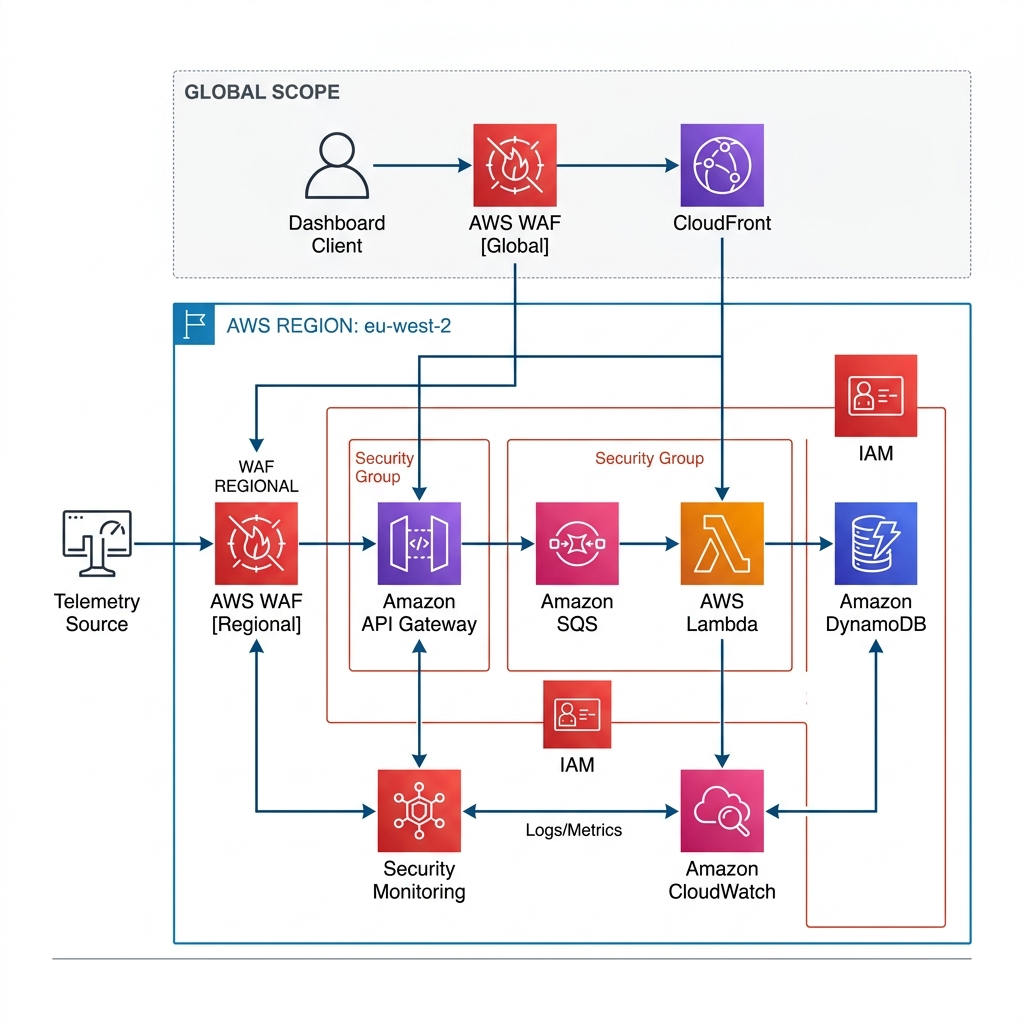
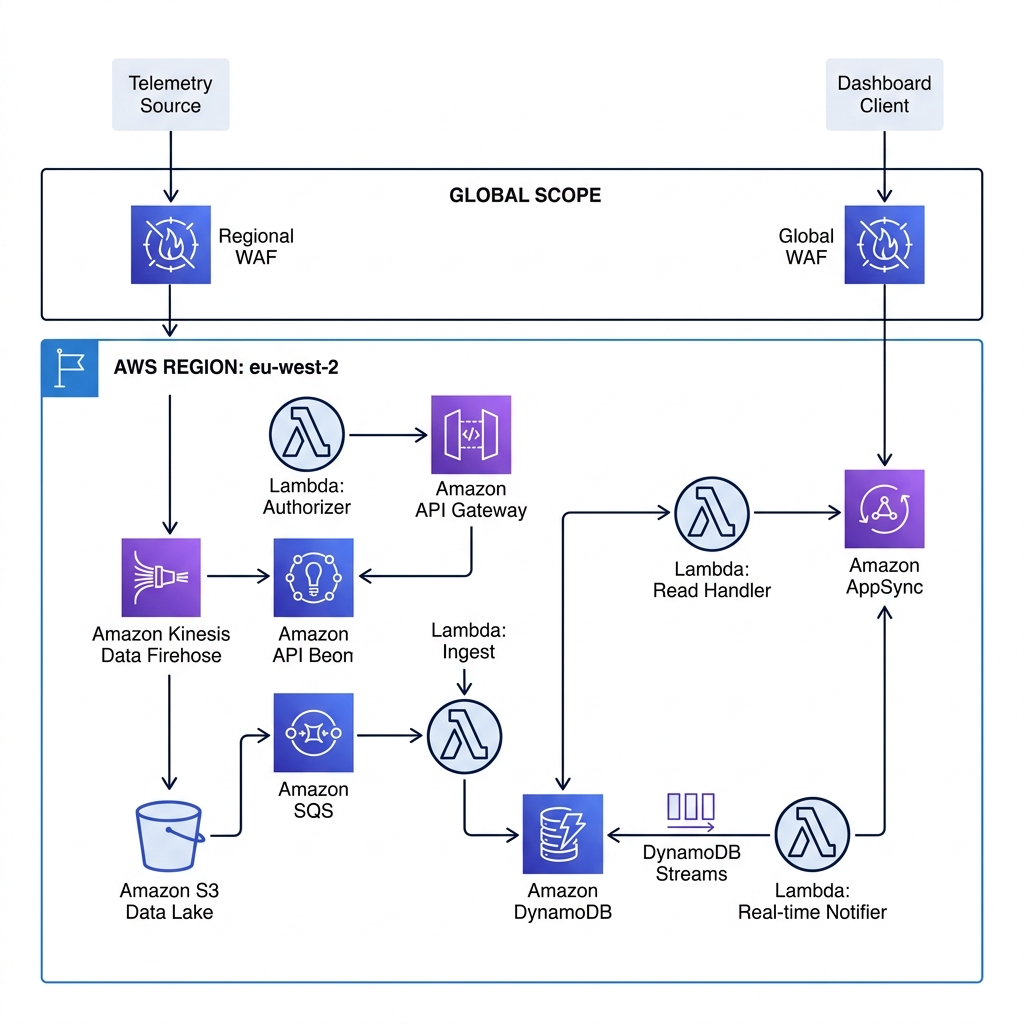
docs: implement granular architecture visualization with 4 distinct Lambdas
- Decomposed the 'Lambda' block into Auth, Ingest, Read, and Notifier functions.
- Updated Mermaid diagram with specific directional arrows for each Lambda's purpose.
- Added AppSync query path (L-READ) and DDB Stream path (L-NOTIFY) to the visualization.
- Refreshed 'architecture_final.png' with a professional, multi-lambda architectural design.

diff --git a/README.md b/README.md
@@ -27,7 +27,7 @@ flowchart TB
     subgraph "🌐 [GLOBAL] Edge & Identity"
         direction TB
         subgraph "🔒 Global Security"
-            WAF["🛡 AWS WAF<br/>(Edge Protection)"]
+            WAF-G["🛡 AWS WAF Global<br/>(Edge Protection)"]
             COG["🔐 Cognito User Pool<br/>(Identity Plane)"]
         end
         CF["☁ CloudFront<br/>(Global Content Delivery)"]
@@ -38,51 +38,60 @@ flowchart TB
     subgraph "🌍 [REGION] London (eu-west-2)"
         direction TB
         
-        %% NO VPC demarcated by lack of VPC box, but logically grouped
-        subgraph "🚀 Data Ingestion Plane"
+        subgraph "🛡 Regional Security"
+            WAF-R["🛡 AWS WAF Regional<br/>(API L7 Shield)"]
+            SSM["📦 SSM SecureString<br/>(x-api-token store)"]
+        end
+
+        subgraph "🚀 Ingestion Plane"
             APIG["🌐 API Gateway v2<br/>(HTTP Ingress)"]
-            AUTH["⚡ Lambda Authorizer<br/>(JWT validation)"]
-            SSM["📦 SSM SecureString<br/>(X-API-Token)"]
+            L-AUTH["⚡ Lambda [Auth]<br/>(Token Validator)"]
             SQS["📥 SQS Ingest Buffer<br/>(Backpressure)"]
         end
 
-        subgraph "⚡ Serverless Core (No VPC required)"
-            L-INGEST["⚡ Lambda Ingest<br/>(Batch Logic)"]
+        subgraph "⚡ Core Processing & Storage"
+            L-INGEST["⚡ Lambda [Ingest]<br/>(Batch Processor)"]
             DDB[("📊 DynamoDB Clusters<br/>(Zones & Metadata)")]
-            STREAM["🌊 DynamoDB Streams<br/>(CDC)"]
-            L-NOTIFY["⚡ Lambda Notifier<br/>(Real-time Push)"]
+            STREAM["🌊 DynamoDB Streams<br/>(CDC Feed)"]
         end
 
-        subgraph "🕸 Unified GraphQL layer"
-            AS["🕸 AWS AppSync<br/>(GraphQL Subscriptions)"]
+        subgraph "🕸 Distribution & Query Layer"
+            AS["🕸 AWS AppSync<br/>(GraphQL Bridge)"]
+            L-NOTIFY["⚡ Lambda [Notifier]<br/>(Push Orchestrator)"]
+            L-READ["⚡ Lambda [Read]<br/>(Query Handler)"]
         end
         
         subgraph "📈 Monitoring & Observability"
             CW["📊 CloudWatch<br/>(Metrics & Alarms)"]
-            SNS["📢 SNS Topic<br/>(Security Alerts)"]
+            SNS["📢 SNS Topic<br/>(Admin Alerting)"]
         end
     end
 
     %% Data Flow (Zero to End)
-    TS -- "1. Telemetry [HTTPS/TLS 1.3]" --> WAF
-    WAF -- "2. Validated Ingress" --> APIG
-    APIG -- "3. Check Key" --> SSM
-    APIG -- "4. Auth Req" --> AUTH
-    APIG -- "5. Push to Buffer" --> SQS
-    SQS -- "6. Batch Trigger" --> L-INGEST
-    L-INGEST -- "7. State Write" --> DDB
-    DDB -- "8. Stream Event" --> STREAM
-    STREAM -- "9. Trigger" --> L-NOTIFY
-    L-NOTIFY -- "10. Graph Mutation" --> AS
-    AS -- "11. Real-time Pub" --> ADMIN
+    TS -- "1. Telemetry [HTTPS]" --> WAF-R
+    WAF-R -- "2. Validated" --> APIG
+    APIG <--> L-AUTH
+    L-AUTH -. "3. Fetch Key" .-> SSM
+    APIG -- "4. Buffering" --> SQS
+    SQS -- "5. Batch Invoke" --> L-INGEST
+    L-INGEST -- "6. Write State" --> DDB
+    DDB -- "7. Stream CDC" --> STREAM
+    STREAM -- "8. Trigger" --> L-NOTIFY
+    L-NOTIFY -- "9. Mutate Data" --> AS
+    AS -- "10. Real-time Pub" --> ADMIN
+
+    %% AppSync Query Path
+    ADMIN -- "11. Query Path" --> AS
+    AS -- "12. Invoke" --> L-READ
+    L-READ -- "13. Read Data" --> DDB
 
     %% Security & Management Links
-    ADMIN -- "Auth & UI Request" --> WAF
-    WAF -- "Filtered Assets" --> CF
+    ADMIN -- "UI/Auth Request" --> WAF-G
+    WAF-G -- "Filtered" --> CF
     CF --- OAC
     COG -- "Admin JWT Issuance" --> ADMIN
     L-INGEST -. "Metric Push" .-> CW
-    CW -- "Notify" --> SNS
+    CW -- "Alert" --> SNS
 
     %% Visual Styling
     classDef edge fill:#f8fafc,stroke:#334155,stroke-width:2px,stroke-dasharray: 5 5;
@@ -92,10 +101,10 @@ flowchart TB
     classDef security fill:#fff7ed,stroke:#ea580c,stroke-width:2px;
     
     class TS,ADMIN edge;
-    class WAF,COG,AUTH,SSM,OAC security;
+    class WAF-G,WAF-R,COG,L-AUTH,SSM,OAC security;
     class APIG,SQS,AS regional;
     class CF global;
-    class L-INGEST,L-NOTIFY,DDB,STREAM,CW,SNS compute;
+    class L-INGEST,L-READ,L-NOTIFY,DDB,STREAM,CW,SNS compute;
 ```
 
 ---
